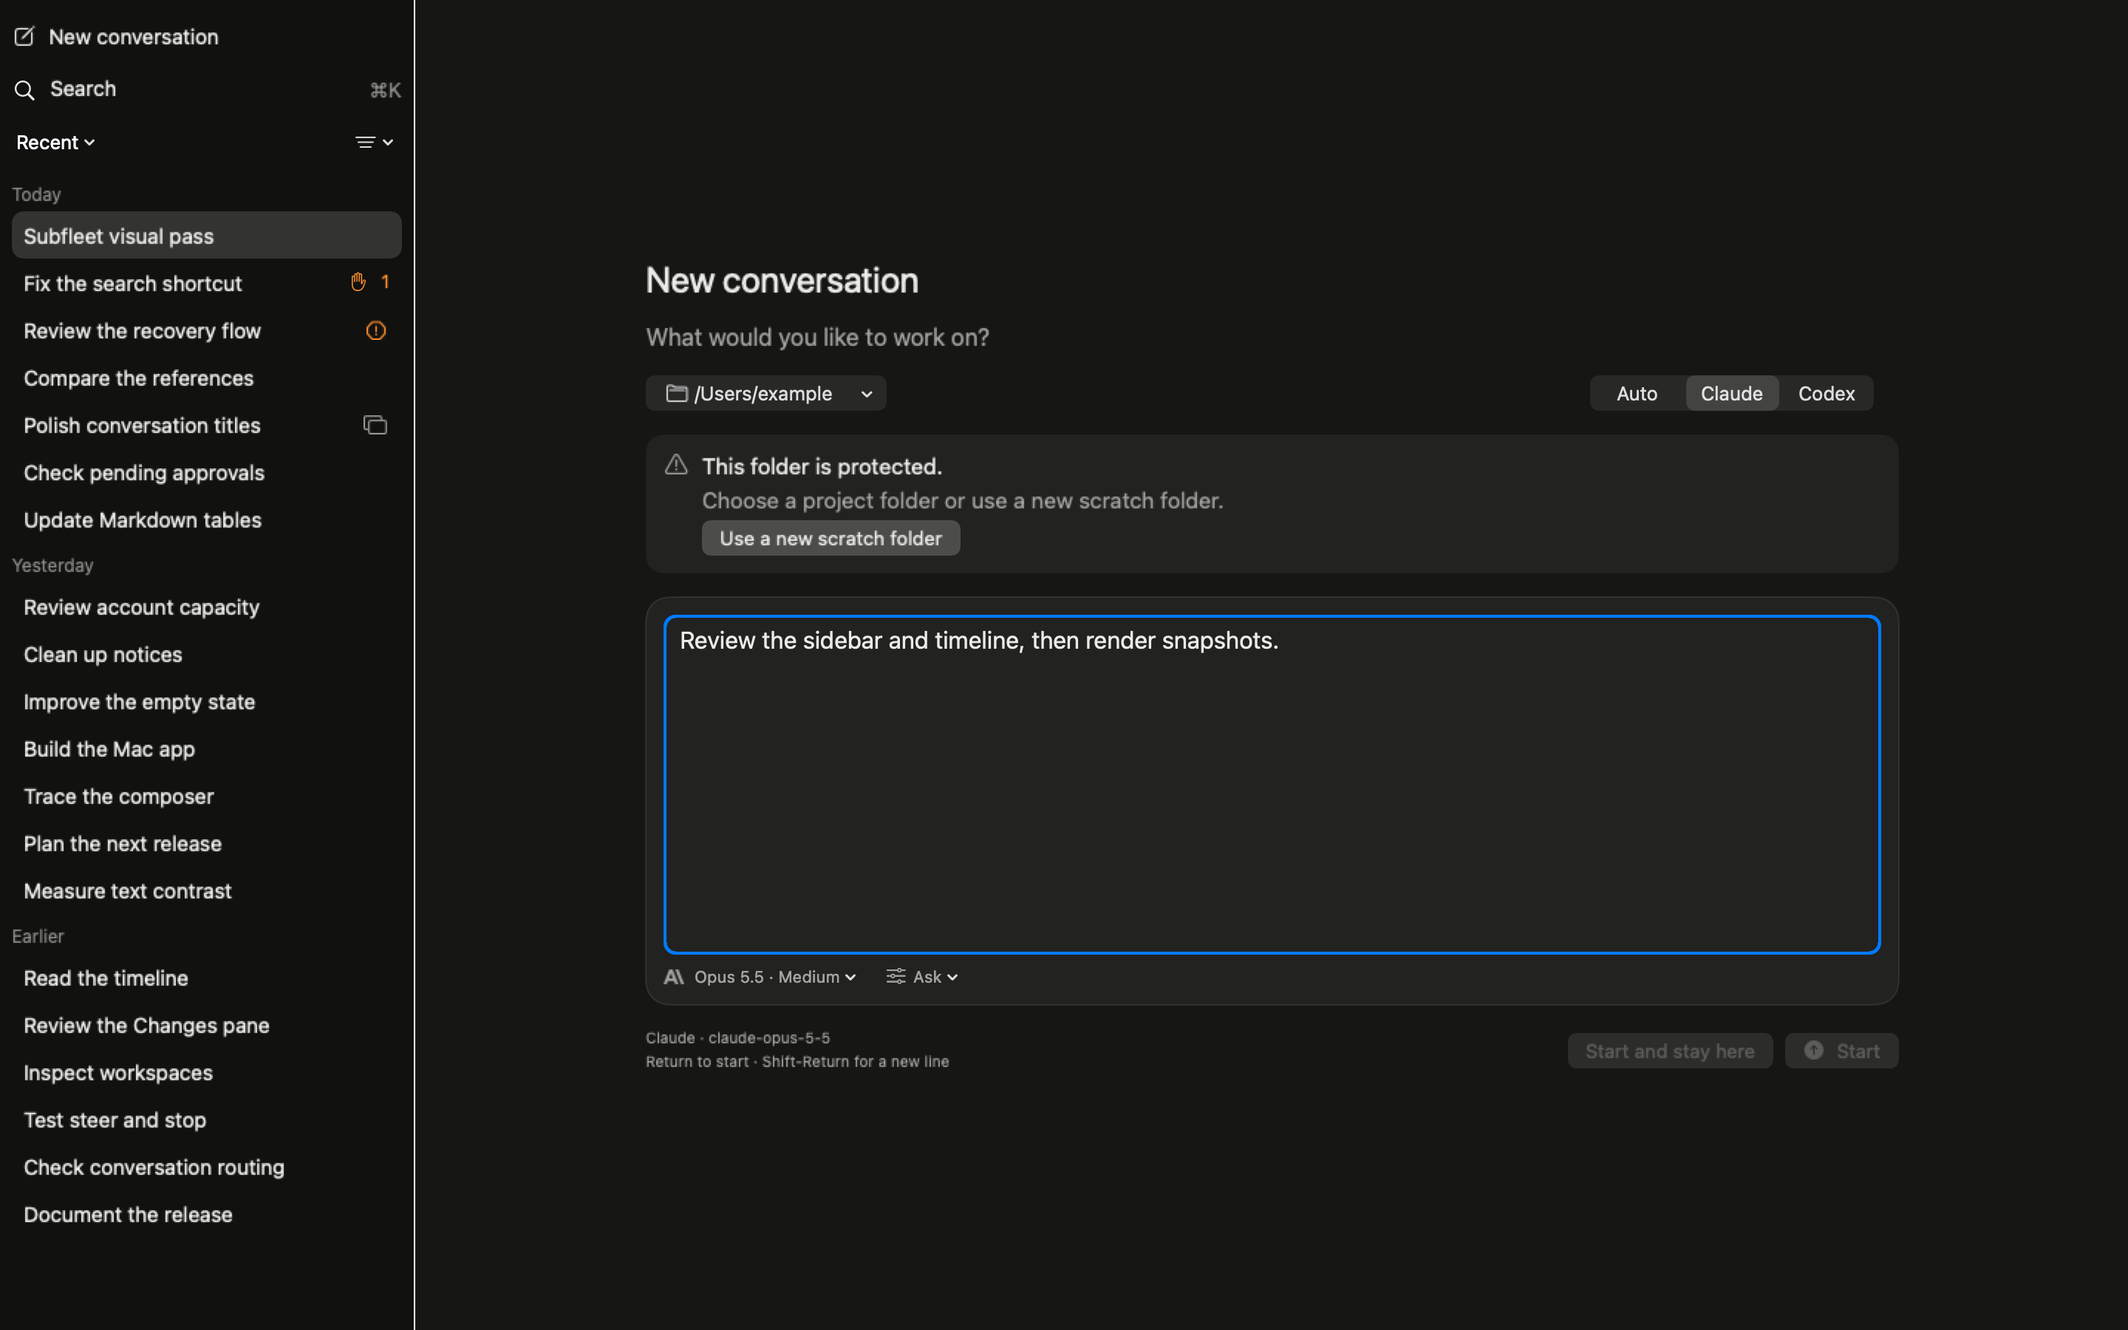
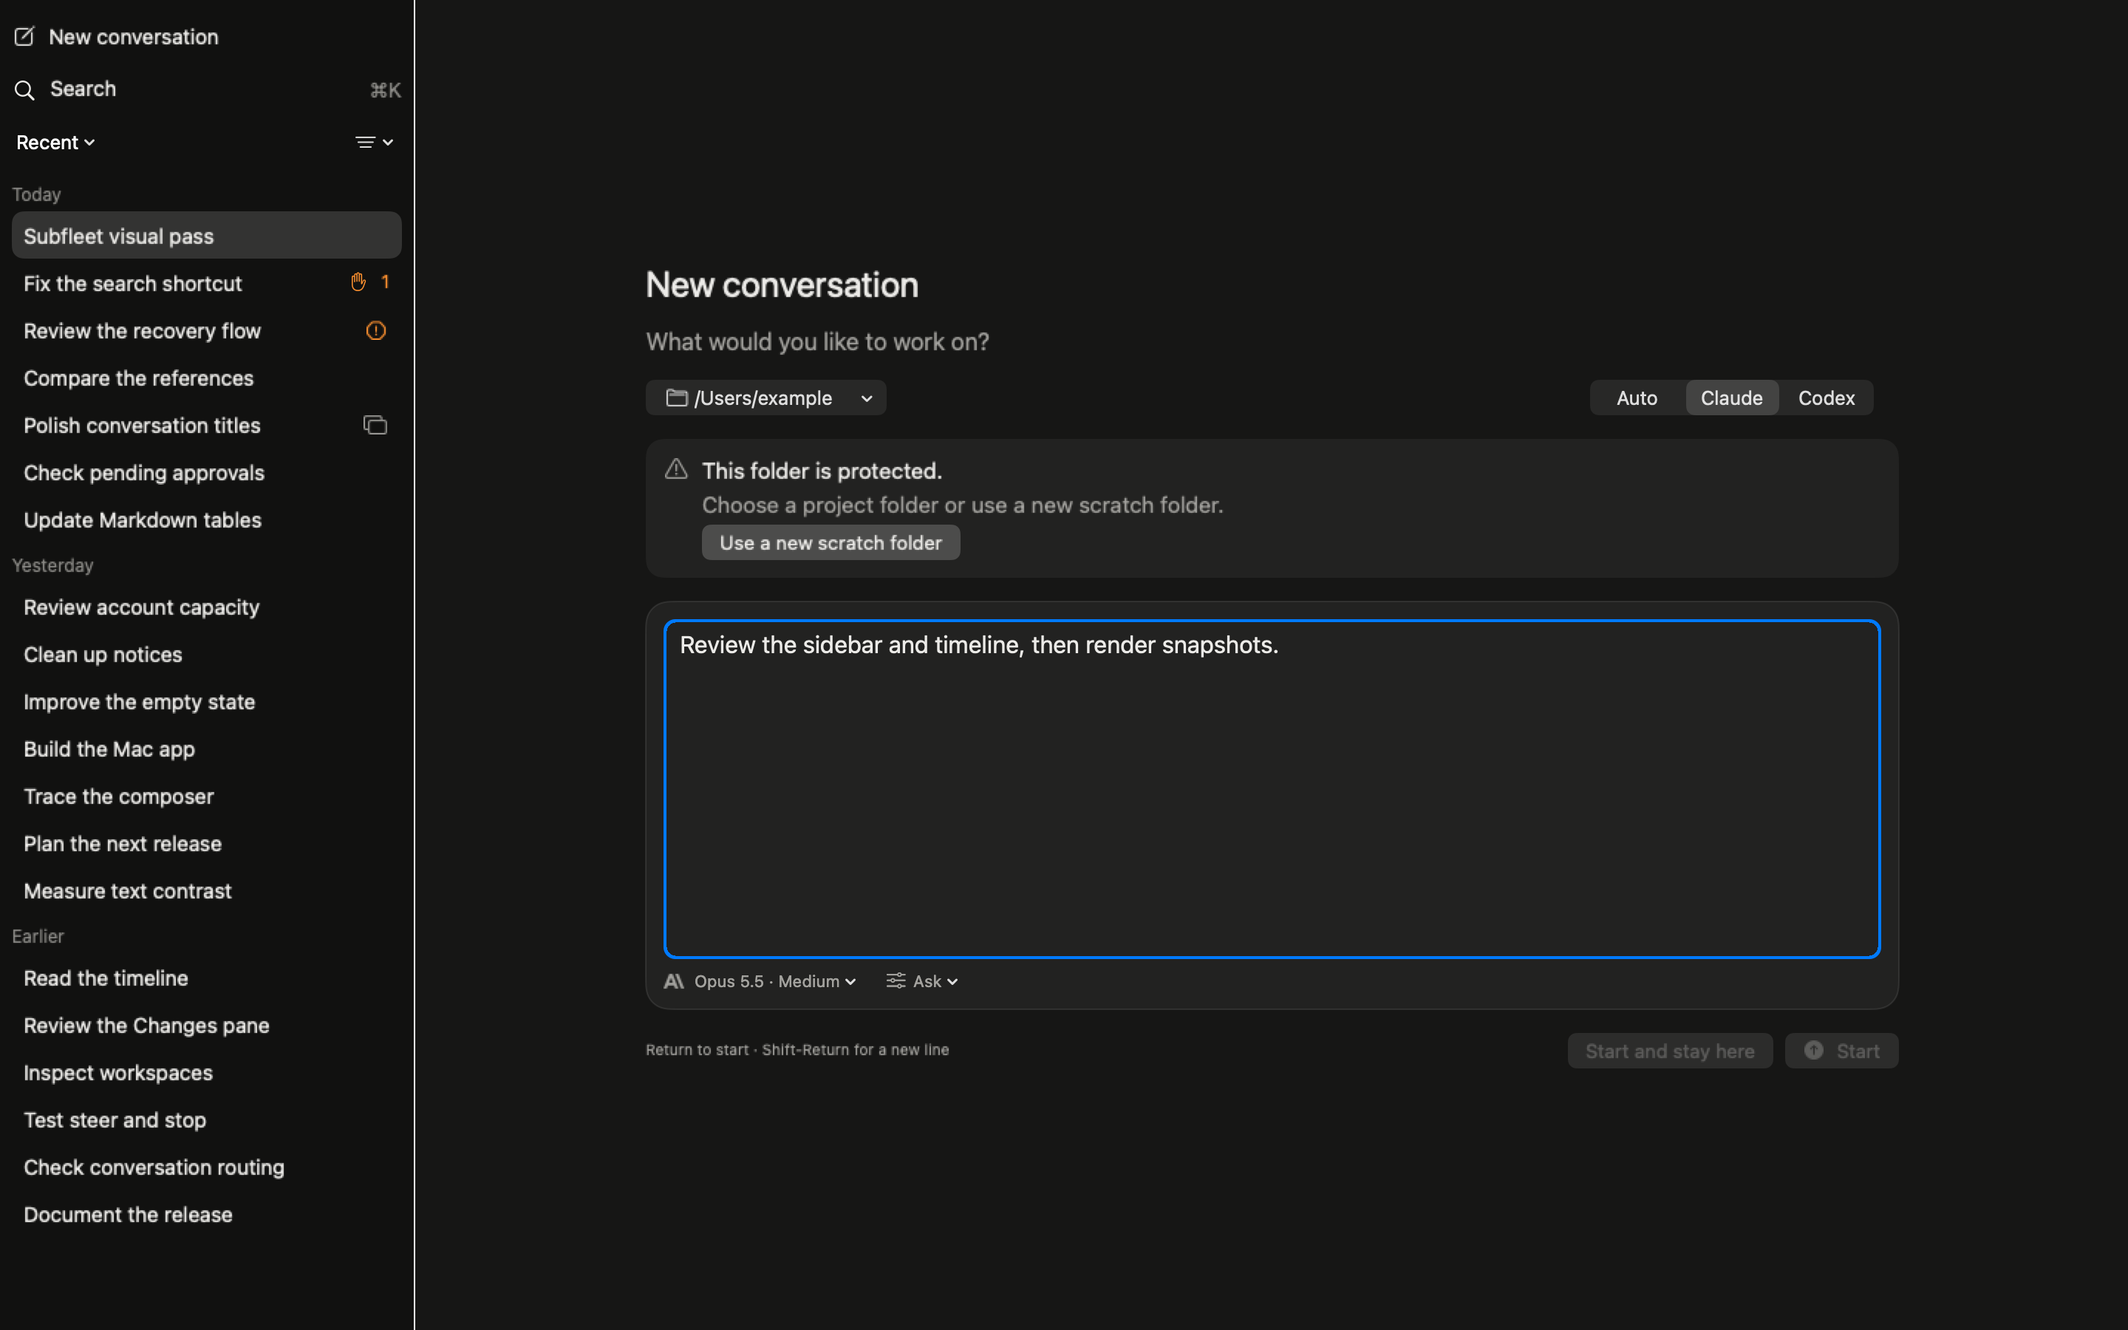
Record reviewed snapshots and validation

diff --git a/docs/reports/2026-10-03-visual-pass/README.md b/docs/reports/2026-10-03-visual-pass/README.md
@@ -1,8 +1,10 @@
 # Subfleet visual pass
 
+The [release-owner follow-up](REVIEW.md) records the latest approval/question, receipt, header and Rename corrections. All after images below now use that revision; the original baseline images and initial validation results remain preserved.
+
 The agent's prose carries live progress. Consecutive tools and visible thinking summaries fold into one quiet expandable row between messages. Empty thinking disappears. Finished turns collect their entire tool history into one duration-and-count row. Raw input and output remain available inside each expanded tool.
 
-The release-owner overrides take precedence for ledger rows 6, 7 and 16: sidebar names occupy one line in either grouping, paths remain in tooltips and the header, and provider marks appear beside model names only. The native-session circular arrow meant “existing session; opening continues it here”; it was removed as provenance rather than current state. Approval/blocked, running, open-elsewhere and non-continuable states keep distinct named marks and tooltips.
+The release-owner overrides take precedence for ledger rows 6, 7 and 16: sidebar names occupy one line in either grouping, paths remain in tooltips and the header, and provider marks appear beside the composer model name only. The native-session circular arrow meant “existing session; opening continues it here”; it was removed as provenance rather than current state. Approval/blocked, running, open-elsewhere and non-continuable states keep distinct named marks and tooltips.
 
 The snapshot fixture is a frozen, sanitized record assembled in the daemon's public event format: 15 Bash starts, six thinking blocks (four empty), three agent text messages, two failed tools and one running tool. It is a test replay rather than a capture from a live account; its [provenance](../../../tests/fixtures/visual/README.md) is documented. The finished replay settles the last call and turn at 3m 12s. Both versions use the same event fixture and real app views. No account, installed app, daemon or live Application Support directory participates.
 
@@ -40,7 +42,7 @@ Each image renders the real views at 1440×900 points and 2880×1800 pixels. An 
 
 ## Intentional differences and evidence
 
-SF Pro remains the native Mac face because the reference faces are not licensed. The Mac accent remains on focus and Send because Subfleet routes across providers. At actual text size the retained reading column is 896 points, wider than the roughly 740-point reference; ledger row 9 explicitly retains the existing reading-column width. Subfleet retains its serving-account usage chip, per-turn serving facts, approval/question forms, steer and stop controls, Changes, and explicit Continue/Leave recovery actions because they express its routing and review workflow.
+SF Pro remains the native Mac face because the reference faces are not licensed. The Mac accent remains on focus and Send because Subfleet routes across providers. At actual text size the retained reading column is 896 points, wider than the roughly 740-point reference; ledger row 9 explicitly retains the existing reading-column width. Subfleet retains its serving-account usage chip, per-turn serving facts in finished-work tooltips, approval/question forms, steer and stop controls, Changes, and explicit Continue/Leave recovery actions because they express its routing and review workflow.
 
 The new-conversation scene renders the app’s actual draft view in its existing detail-pane placement; changing it to a modal sheet would change navigation behavior. Native buttons in the offscreen, inactive AppKit context can appear gray. The baseline material uses an opaque native backing because there is no visible desktop to blur. The out-of-scope menu-bar popover, Changes rendering and ⌘K palette keep their existing layouts, with colors and radii moved to tokens.
 
@@ -64,7 +66,7 @@ Source links below use repository-relative paths and name the production views, 
 | 4 — Accent | Mac accent for Send and visible focus: `app/Sources/Theme.swift:80`, `app/Sources/UIComposer.swift:271`; native editor focus outline in `app/Sources/UIComposer.swift:33`. |
 | 5 — Sidebar top | New conversation first, Search second, connected to the existing ⌘K palette: `app/Sources/UIWindow.swift:154`. |
 | 6 — Sidebar rows | One-line names in both groupings, 32-point pitch, 14-point type, rounded selection; folder tooltip and named state marks: `app/Sources/UIWindow.swift:199`, `:219`. Release-owner override applied. |
-| 7 — Provider | No row badge. Simplified monochrome template provider marks beside header/composer model: `app/Sources/ProviderMark.swift:347`, `app/Sources/UIModelControls.swift:15`, `app/Sources/UIWindow.swift:471`. |
+| 7 — Provider | No row badge. Simplified monochrome template provider marks beside the composer model: `app/Sources/ProviderMark.swift:347`, `app/Sources/UIModelControls.swift:15`, `app/Sources/UIWindow.swift:471`. |
 | 8 — Grouping | Quiet list-header switch; Today/Yesterday/Earlier headings, or existing workspace headings: `app/Sources/UIWindow.swift:146`, `:170`. |
 | 9 — Column | Centered existing reading column, 24-point padding: `app/Sources/UIWindow.swift:305`, `app/Sources/TextScale.swift:116`. |
 | 10 — Person | Right-aligned neutral raised bubble, radius 16: `app/Sources/UIWindow.swift:548`. |
@@ -73,14 +75,14 @@ Source links below use repository-relative paths and name the production views, 
 | 13 — Composer | One raised radius-16 container, controls inside, round Send/Steer: `app/Sources/UIComposer.swift:160`, `:281`. |
 | 14 — Model/effort | One menu with existing model and effort choices and catalog display names: `app/Sources/UIModelControls.swift:15`. |
 | 15 — Permission | Quiet menu, amber when widened; existing confirmation retained: `app/Sources/UIModelControls.swift:57`, `app/Sources/UIComposer.swift:222`. |
-| 16 — Header | Regular 15-point title, folder, Changes, quiet model/provider and serving chip: `app/Sources/UIWindow.swift:446`. |
+| 16 — Header | Regular 15-point title, folder, Changes and serving chip: `app/Sources/UIWindow.swift:446`. |
 | 17 — Serving account | Existing serving facts matched to existing status usage, with stale/unmatched values withheld: `app/Sources/AccountUsage.swift:3`, `app/Sources/UIModel.swift:352`. |
 | 18 — Notices | Shared neutral notice style for limits, failures and app availability; failed-send footer remains a recovery button: `app/Sources/Theme.swift:125`, `app/Sources/UIWindow.swift:38`, `:520`, `app/Sources/UIFailedConversationDraft.swift:13`. |
 | 19 — Injected turns | Existing typed notice parsing already correct; notice rendering now uses the shared style: `app/Sources/UIWindow.swift:523`. |
 | 20 — Blocked | Same Continue/Leave actions in a neutral notice with separate visible controls: `app/Sources/UIConversationRecovery.swift:6`. |
 | 21 — Radii | Three role tokens replace numeric view radii: `app/Sources/Theme.swift:23`. |
 
-## Validation
+## Initial validation
 
 The full run of `tests/frontend` and `tests/unit/test_app_cutover_daemon.py` passed **340 tests**, with **one skip** (341 collected: 328 frontend, 13 app). Frontend: 327 passed, one skipped. App daemon regressions: 13 passed. This includes the four new contrast/progress/account tests. The skipped native process check needs sandbox-unavailable `ps`/sysctl boot identity. [JUnit results](tests.xml) preserve the exact cases. Wall time: 3822.75 seconds.
 
@@ -88,7 +90,7 @@ After the native color, monospace step and last token fixes, the real reading/me
 
 The final native permission label passed the five real reading/keyboard/palette tests again in **113.64 seconds** ([final view results](final-view-tests.xml)). The existing choice is still called “Bypass”; only its styling changed. The real widened-permission scene confirms amber text and the existing explicit confirmation.
 
-All **18 after images** and **four baseline images** were personally inspected against the references. The live scene shows three unfurled prose messages separated by three groups of five commands, with two failures and a named running spinner. Its expansion shows the two visible thinking summaries and borderless human-labelled tools. The finished scene shows one duration/count/failure row, all three prose messages, Markdown code/table and the person bubble. Sidebar rows have no paths or badges, and every state mark has a tooltip. Both refused-folder scenes show the reason, a scratch-folder action and disabled Start controls. Both new-draft scenes show a complete focus outline. Blocked scenes expose Continue/Leave, and empty scenes retain New conversation and ⌘K guidance. [Snapshot manifest](snapshots.json) verifies 22 PNGs at exactly 2880×1800 pixels; the renderer asserts that no window was visible.
+All **18 after images** and **four baseline images** were personally inspected against the references. The live scene shows three unfurled prose messages separated by three groups of five commands, with two failures and a named running spinner. Its expansion shows the two visible thinking summaries and borderless human-labelled tools. The finished scene shows one duration/count/failure row, all three prose messages, Markdown code/table and the person bubble. Sidebar rows have no paths or badges, and every state mark has a tooltip. Both refused-folder scenes show the reason, a scratch-folder action and disabled Start controls. Both new-draft scenes show a complete focus outline. Blocked scenes expose Continue/Leave, and empty scenes retain New conversation and ⌘K guidance. The initial inspection covered 22 PNGs; the updated [snapshot manifest](snapshots.json) verifies 28 PNGs (20 reviewed renders and eight comparison images) at exactly 2880×1800 pixels; the renderer asserts that no window was visible.
 
 The color/radius/material audit finds no inline blue/orange, opacity fills, numeric radii or window materials outside Theme. The sole `.opacity(0)` is the pre-existing invisible ⌘= shortcut button, not a fill; it stays to preserve text-size behavior.
 
@@ -109,7 +111,7 @@ codesign --verify --deep --strict build/visual-pass-product/Subfleet.app
 
 The baseline source comes from `git archive 75972d4a app/Sources`, extracted under the ignored `build/visual-baseline/Sources`. Render it with `SF_SNAPSHOT_SOURCE_ROOT="$PWD/build/visual-baseline/Sources" SF_SNAPSHOT_SCENES=live,finished tools/app_snapshots.sh docs/reports/2026-10-03-visual-pass/before`.
 
-## Delivery
+## Initial delivery
 
 The shared git metadata is outside the writable workspace. Coherent commits therefore live on **`feat/visual-pass`** in the ignored workspace-local **`.git-local`**, based on **`75972d4a9506132ac066c2e7474d5a1b9ac20f10`**. Implementation and renderer head: **`ccacf66`**; the final evidence commit adds this report, PNGs, fixture provenance, manifest and JUnit results. Every commit carries the requested coauthor.
 

diff --git a/docs/reports/2026-10-03-visual-pass/REVIEW.md b/docs/reports/2026-10-03-visual-pass/REVIEW.md
@@ -1,0 +1,48 @@
+# Release-owner snapshot review
+
+The four requested display corrections retain the original prose/tool grouping, name-only sidebar, composer container and finished-work summary.
+
+1. Approval cards lead with the description, show the command in one selectable monospace block, and retain Deny/Allow. Full request JSON and the note action are behind **Details**. Question cards show their description, question and choices normally; full request JSON is also behind **Details**. The review sheet follows the same presentation. Commands use the person-only masked request when available, rather than replacing it with provider input. Masked-value review, nonce/hash validation and response handlers are unchanged.
+2. Running turns use the pinned bottom status strip, including Review and Stop. Ordinary completed turns have no visible receipt line. The finished **Worked for** row's tooltip contains the serving account/model/effort and any existing serving warnings. Sending, unresolved-delivery, queued and steered acknowledgments and per-turn Changes remain reachable.
+3. The header contains the title, home-abbreviated folder, Rename, Changes and the account-usage chip. Model/provider appears only in the composer control. The duplicate model hint below the new-conversation composer was removed as well. The existing `abbreviatedPath` already handles the home directory correctly; the updated conversation fixtures exercise `~/subfleet`.
+4. Kept the pencil: its tooltip and accessibility label both say **Rename**. The title's existing context-menu Rename action remains available.
+
+The renderer replays the same frozen progress fixture. The additional question scene exercises the real question card and its Details control without changing the stream fixture or contacting a daemon. All snapshots remain 1440×900 points at 2×, in both modes, with no visible window.
+
+| Reviewed render | Updated render |
+| --- | --- |
+| ![Live before](review-before/live-dark.png) | ![Live after](after/live-dark.png) |
+| ![Finished before](review-before/finished-dark.png) | ![Finished after](after/finished-dark.png) |
+| ![Live before, light](review-before/live-light.png) | ![Live after, light](after/live-light.png) |
+| ![Finished before, light](review-before/finished-light.png) | ![Finished after, light](after/finished-light.png) |
+
+| Scene | Dark | Light |
+| --- | --- | --- |
+| Sidebar | [dark](after/sidebar-dark.png) | [light](after/sidebar-light.png) |
+| Finished | [dark](after/finished-dark.png) | [light](after/finished-light.png) |
+| Live approval | [dark](after/live-dark.png) | [light](after/live-light.png) |
+| Expanded live work | [dark](after/live-expanded-dark.png) | [light](after/live-expanded-light.png) |
+| Blocked | [dark](after/blocked-dark.png) | [light](after/blocked-light.png) |
+| New conversation | [dark](after/new-dark.png) | [light](after/new-light.png) |
+| Refused folder | [dark](after/refused-dark.png) | [light](after/refused-light.png) |
+| Widened permission | [dark](after/permission-dark.png) | [light](after/permission-light.png) |
+| Empty | [dark](after/empty-dark.png) | [light](after/empty-light.png) |
+| Question | [dark](after/question-dark.png) | [light](after/question-light.png) |
+
+The [initial report](README.md) retains the original baseline comparison and initial full-suite validation. Its after images now point to these reviewed renders. The original baseline images remain unchanged.
+
+The targeted regression run passed **91 tests** in **835.68 seconds**, including approval reachability, masked requests, question drafting, notifications, native reading/menu views, keyboard behavior and all 13 app daemon regressions. [JUnit results](review-tests.xml) preserve the cases. The initial full-suite results remain in the original report.
+
+The final presentation checks passed **5 tests** in **100.90 seconds** ([results](review-presentation-tests.xml)), including contrast, unchanged progress grouping, finished-work collapse, account matching, masked-command precedence, tooltip facts and queued/steered/unresolved acknowledgment states. These five cases overlap the regression run; they are not 96 distinct tests.
+
+Source: cards in `app/Sources/UIApprovals.swift:18` and `ApprovalPresentation.swift:4`; live/finished metadata in `UIWindow.swift:297`, `:570`, `:1008` and `WorkPresentation.swift:112`; header and Rename in `UIWindow.swift:449` and `:466`; duplicate draft hint removed at `UINewConversation.swift:92`.
+
+All **20 final renders** were personally inspected in both modes. Rendering took **312.90 seconds** from source `b51bdcea06b68da3d53787ee0458e3b9d6bda5f6`. The [manifest](snapshots.json) verifies dimensions and hashes for those renders and eight preserved comparison images. The cards, single live status strip, header folder/model placement, Rename label, refused-folder focus and Continue/Leave controls were checked visually.
+
+Remaining reference differences are unchanged: native SF Pro typography, the 896-point reading column, the Mac accent color, Subfleet's account/review/workspace controls, and gray inactive controls in offscreen AppKit renders. Provider marks remain the simplified vectors documented in the initial report.
+
+`app/build.sh build/visual-pass-product` succeeded in **502.26 seconds** through the resumable compiler route. `codesign --verify --deep --strict` passed. [Build evidence](review-build.json) records the source commit, output and verification result. The compiler emitted a Swift concurrency warning and the linker warned about the wrapper's missing Swift search directory; neither prevented a successful build or signature check. The app was neither installed nor launched.
+
+Implementation commits are `80a01c8` and `b51bdce`; the final evidence commit adds this report and the reviewed snapshots. Commits are on `feat/visual-pass` in workspace-local `.git-local`, with the required coauthor trailer. The verified delivery bundle is `docs/reports/2026-10-04-visual-review.bundle`, head `refs/heads/feat/visual-pass`, with prerequisite **`a65ee8ea1238883bea0c6a72de54261253e894c7`**. Its exact final head is reported in the delivery message. The original bundle is preserved.
+
+All foreground commands and their compiler children completed. No protocol, daemon, routing or policy files changed; no live state was touched and nothing was pushed.
